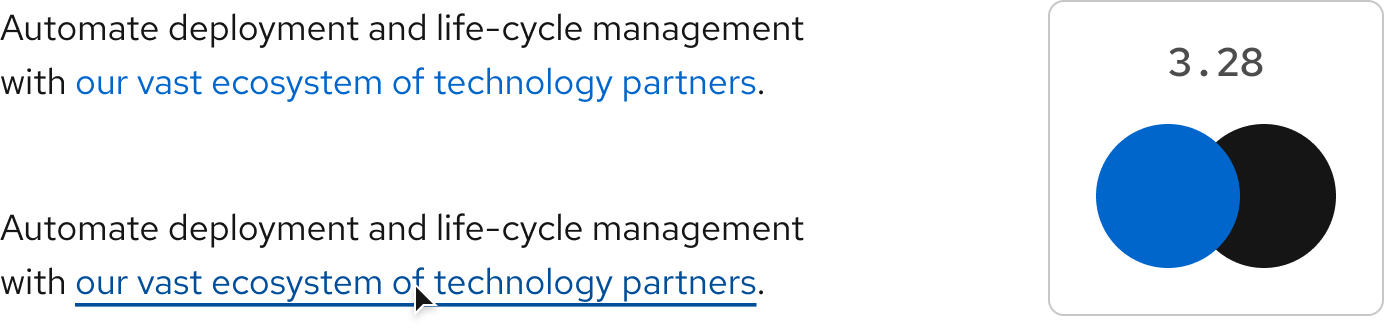
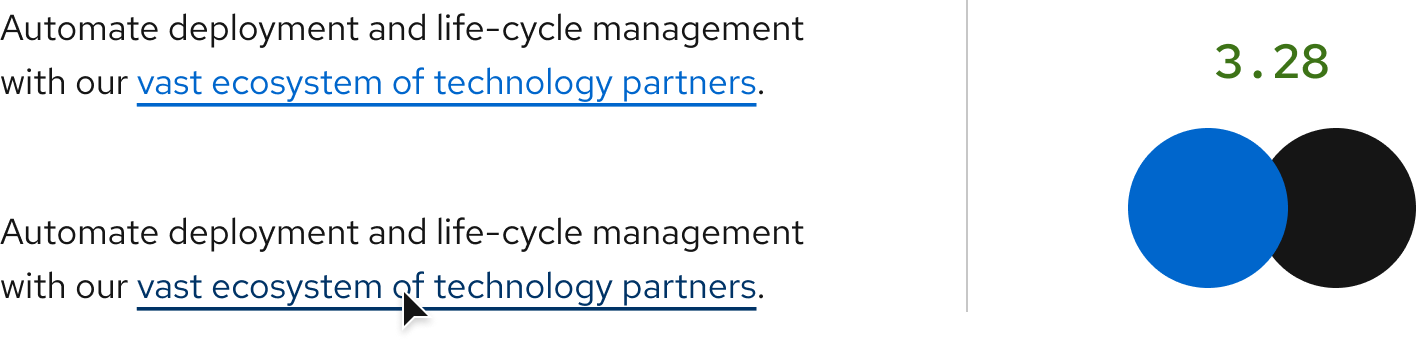
updated image for link contrast section

diff --git a/docs/accessibility/design.md b/docs/accessibility/design.md
@@ -62,7 +62,7 @@ In fact, you should default to underlining all text links, except for the follow
 
 That said, you still _can_ underline the above, at your discretion.
 
-If, for some reason, color is the only way you can distinguish links within a text block, the contrast ratio between the link and surrounding text _must_ be at least 3:1 in both visited and unvisited states. And underlines or other non-color cues _must also_ then be used to signify when the link receives hover and focus, as in the example below:
+If, for some reason, color is the only way you can distinguish links within a text block, the contrast ratio between the link and surrounding text _must_ be at least 3:1 in both visited and unvisited states. And underlines or other non-color cues _must also_ then be used to signify when the link receives hover and focus.
 
 <uxdot-example width-adjustment="692px" no-border>
   <img src="{{ '/assets/color/contrast-links.png' | url }}" alt="Contrast ratio of a blue link next to black text and an example of a link's darker blue, underlined hover state">
